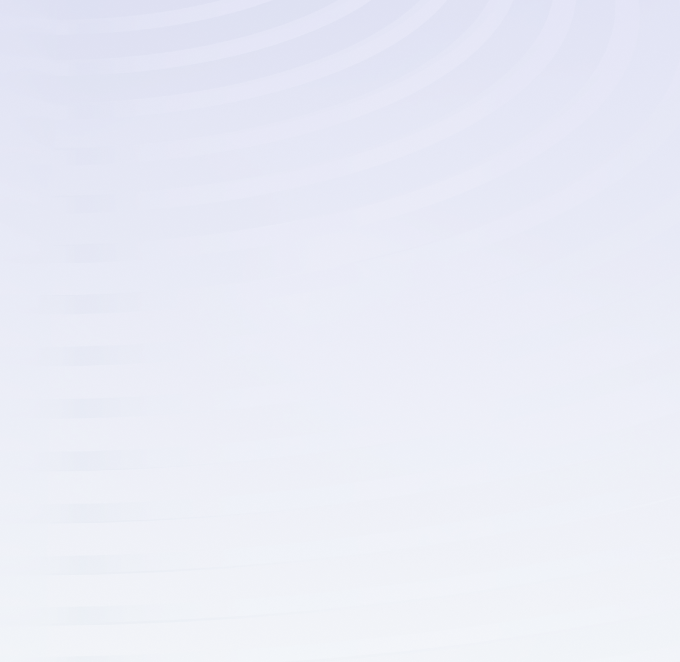
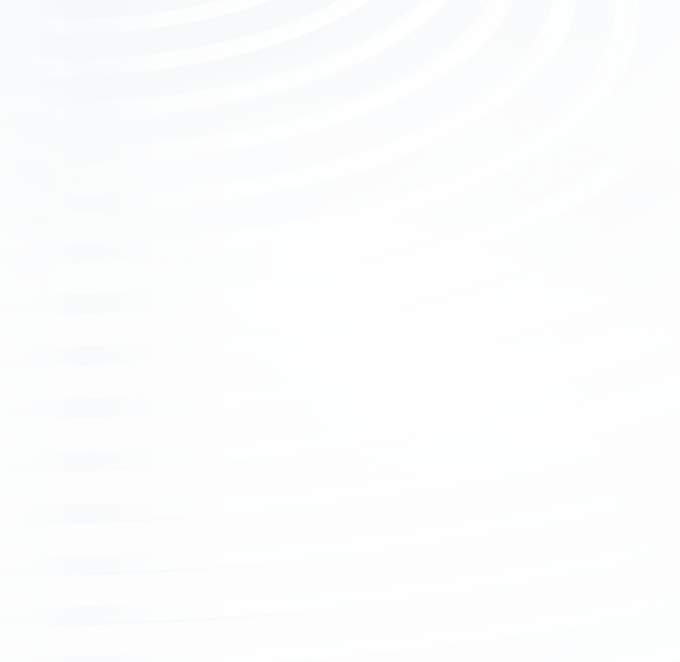
update

Changed region(s): [[0.0, 0.0, 1.0, 0.1208]]

diff --git a/src/components/footer/index.tsx b/src/components/footer/index.tsx
@@ -1,0 +1,59 @@
+
+import './index.less'
+import zhihu from '@/assets/icon/zhihu.png'
+import weibo from '@/assets/icon/weibo.png'
+import weixin from '@/assets/icon/wechat.png'
+
+const Footer: React.FC = () => {
+    return (
+        <footer className='footer'>
+            <div className='footer-wrap app-design'>
+                <div className='footer-item'>
+                    <div className='item-title'>联系我们</div>
+                    <div className='item-wrap'>
+                        <div className='item-label'>
+                            <svg xmlns="http://www.w3.org/2000/svg" width="24" height="24" viewBox="0 0 24 24" fill="none">
+                                <path fillRule="evenodd" clipRule="evenodd" d="M12.7075 21.2706C13.9493 20.0232 16.4989 17.4628 17.6569 16.3048C20.781 13.1806 20.781 8.11529 17.6569 4.99109C14.5327 1.8669 9.46734 1.8669 6.34315 4.99109C3.21895 8.11529 3.21895 13.1806 6.34315 16.3048C7.5011 17.4628 10.0507 20.0232 11.2925 21.2706C11.6835 21.6633 12.3165 21.6633 12.7075 21.2706ZM12 13.3149C13.4728 13.3149 14.6667 12.121 14.6667 10.6482C14.6667 9.17547 13.4728 7.98156 12 7.98156C10.5272 7.98156 9.33333 9.17547 9.33333 10.6482C9.33333 12.121 10.5272 13.3149 12 13.3149Z" fill="#7D8AA3" />
+                            </svg>
+                        </div>
+                        <div className='item-text'>地址：湖南省长沙市芙蓉区合平路618号</div>
+                    </div>
+                    <div className='item-wrap'>
+                        <div className='item-label'>
+                            <svg xmlns="http://www.w3.org/2000/svg" width="24" height="24" viewBox="0 0 24 24" fill="none">
+                                <path d="M3.46255 17.8664C2.68151 17.0853 2.6815 15.819 3.46255 15.0379L4.46833 14.0322C5.12382 13.3767 6.14384 13.2575 6.93276 13.7443L7.57481 14.1405C7.78211 14.2684 8.02942 14.3157 8.2603 14.238C8.86211 14.0356 10.1515 13.4599 11.6806 11.9309C13.2097 10.4018 13.7853 9.11239 13.9877 8.51058C14.0654 8.2797 14.0181 8.03239 13.8902 7.82509L13.494 7.18304C13.0072 6.39412 13.1264 5.3741 13.7819 4.71861L14.7877 3.71283C15.5687 2.93178 16.835 2.93178 17.6161 3.71283L18.2393 4.33603C19.7774 5.87419 20.1459 8.23468 18.9437 10.0475C17.9162 11.597 16.5173 13.4829 14.875 15.1253C13.2326 16.7676 11.3468 18.1664 9.79727 19.194C7.9844 20.3962 5.62391 20.0277 4.08576 18.4896L3.46255 17.8664Z" fill="#7D8AA3" />
+                            </svg>
+                        </div>
+                        <div className='item-text'>电话：0731 - 88849090</div>
+                    </div>
+                    <div className='item-wrap'>
+                        <div className='item-label'>
+                            <svg xmlns="http://www.w3.org/2000/svg" width="24" height="24" viewBox="0 0 24 24" fill="none">
+                                <rect x="3" y="5" width="18" height="14" rx="2" fill="#7D8AA3" />
+                                <path d="M6 8L12 11L18 8" stroke="#2E3A55" strokeWidth="1.5" strokeLinejoin="round" />
+                            </svg>
+                        </div>
+                        <div className='item-text'>邮箱：huazhi@higentec.com</div>
+                    </div>
+                </div>
+                <div className='footer-item'>
+                    <div className='item-title'>友情链接</div>
+                    <div className='item-wrap'>华智生物官网</div>
+                    <div className='item-wrap'>智慧育种平台</div>
+                    <div className='item-wrap'>育种管家</div>
+                </div>
+                <div className='footer-item'>
+                    <div className='item-title'>友情链接</div>
+                    <div className='images'>
+                        <img src={weixin} className='item-image' alt="" />
+                        <img src={weibo} className='item-image' alt="" />
+                        <img src={zhihu} className='item-image' alt="" />
+                    </div>
+                </div>
+            </div>
+            <div className='footer-ipc app-design'>Copyright©2024 华智生物技术有限公司 All rights reserved. </div>
+        </footer>
+    )
+}
+
+export default Footer;

diff --git a/src/views/system/tools.tsx b/src/views/system/tools.tsx
@@ -22,16 +22,19 @@ const Tools: React.FC = () => {
 
         {
             title: '名称',
+            ellipsis: true,
             dataIndex: 'name_zh',
         },
         {
             title: '英文名',
+            ellipsis: true,
             dataIndex: 'name_en',
         },
         {
             title: '类型',
         },
         {
+            width: 400,
             title: '创建者',
             ellipsis: true,
             dataIndex: 'creator',
@@ -40,8 +43,11 @@ const Tools: React.FC = () => {
                     <Select
                         virtual
                         allowClear
+                        size='middle'
                         mode='multiple'
                         maxTagCount={3}
+                        placeholder='请选择创建者'
+                        style={{width: 300}}
                         defaultValue={item.creator}
                         onChange={e => handleChangeRole(item, e)}
                         options={users.map(it => ({ ...it, value: it.id, label: it.realname }))}
@@ -69,12 +75,7 @@ const Tools: React.FC = () => {
                     <Dropdown menu={{ style: { backgroundColor: 'var(--light)' }, items: [{ key: 'success', label: '成功' }, { key: 'failed', label: '失败' }] }}>
                         <span className='audit audit-success'>成功</span>
                     </Dropdown>
-                    // <Switch
-                    //     checkedChildren='启用'
-                    //     unCheckedChildren='禁用'
-                    //     // defaultChecked={item.is_active}
-                    //     onChange={e => handleChangeActive(item, e)}
-                    // />
+                    
                 )
             }
         },
@@ -246,9 +247,7 @@ const Tools: React.FC = () => {
                 action={action}
                 open={openDrawerForm}
                 onClose={handleCloseDrawer}
-                // initialValues={selectedTool}
                 submitLoading={submitLoading}
-            // onConfirm={handleConfirmDrawerForm}
             />
             <Flex style={{ marginBottom: 20 }} justify='space-between'>
                 <Space>

diff --git a/src/views/cloud/components/hot.tsx b/src/views/cloud/components/hot.tsx
@@ -1,7 +1,19 @@
+import { getSystemToolList } from '@/api/tools'
+import hot from '@/assets/images/hot.png'
+import { useEffect } from 'react'
+
 export const Hot: React.FC = () => {
+    useEffect(()=>{
+        getSystemToolList({
+            page: 1,
+            size: 100,
+            type: 'tools'
+        })
+    },[])
     return (
         <div className='hot app-design'>
             <div className='hot-item'>
+                <img src={hot} alt="" />
                 <div className='hot-item-title'>多组学</div>
                 <div className='more'>
                     <svg xmlns="http://www.w3.org/2000/svg" width="32" height="32" viewBox="0 0 32 32" fill="none">
@@ -10,10 +22,17 @@ export const Hot: React.FC = () => {
                     </svg>
                 </div>
                 <div className='hot-tools'>
-                    <div className='hot-tool-item'></div>
+                    <div className='hot-tool-item'>
+                        <img src="" alt="" />
+                        <div className='tool-text'>
+                            <div className='tool-title'></div>
+                            <div className='tool-desc'>desc</div>
+                        </div>
+                    </div>
                 </div>
             </div>
             <div className='hot-item'>
+                <img src={hot} alt="" />
                 <div className='hot-item-title'>云工具</div>
                 <div className='more'>
                     <svg xmlns="http://www.w3.org/2000/svg" width="32" height="32" viewBox="0 0 32 32" fill="none">

diff --git a/src/components/footer/index.less b/src/components/footer/index.less
@@ -1,0 +1,50 @@
+.footer {
+    width: 100%;
+    --bg: #181D28;
+    padding-top: 60px;
+    color: var(--light);
+    background-color: var(--bg);
+
+
+    .footer-wrap {
+        display: flex;
+        margin-bottom: 21px;
+        justify-content: center;
+
+        .footer-item {
+            flex: 1;
+            display: flex;
+            flex-direction: column;
+
+            .item-title {
+                font-size: 16px;
+                font-weight: 500;
+                margin-bottom: 25px;
+            }
+
+            .item-wrap {
+                gap: 8px;
+                display: flex;
+                align-items: center;
+                margin-bottom: 20px;
+
+                .item-text {
+                    margin-top: -5px;
+                }
+            }
+
+            .images {
+                display: flex;
+                gap: 20px;
+            }
+        }
+    }
+
+    .footer-ipc {
+        padding: 21px 0px;
+        text-align: center;
+        background: #181D28;
+        width: var(--design-size);
+        box-shadow: 0px 1px 0px 0px #414E6C inset;
+    }
+}

diff --git a/src/routes/system.tsx b/src/routes/system.tsx
@@ -1,8 +1,8 @@
+import { RouterItems } from '.'
 import Layout from '@/views/layout'
 import { Suspense, lazy } from 'react'
 import { done, start } from 'nprogress'
 import { Link, path_link } from '@/config'
-import { RouteObject } from 'react-router-dom'
 
 const Users = lazy(async () => {
     start()
@@ -76,16 +76,19 @@ export const Projects = lazy(async () => {
 })
 
 
-export const system_routes: RouteObject[] = [
+export const system_routes: RouterItems[] = [
     {
         element: <Layout />,
         path: '/' + Link.system,
+        meta: {
+            auth: true
+        },
         children: [
             {
                 index: true,
                 element: (
                     <Suspense>
-                        <Dashbord/>
+                        <Dashbord />
                     </Suspense>
                 )
             },

diff --git a/src/views/layout/section.tsx b/src/views/layout/section.tsx
@@ -2,6 +2,7 @@ import { Menu, MenuProps } from 'antd'
 import { Outlet } from 'react-router-dom'
 import { menuSlice, useMenu } from '@/store/menuSlice'
 import { useRouteState } from '@/compisition/userRouteState'
+import Footer from '@/components/footer'
 
 const Section: React.FC = () => {
     const { routeState } = useRouteState()
@@ -26,12 +27,14 @@ const Section: React.FC = () => {
                     </div>
                 </aside>
                 <main className='main'><Outlet /></main>
+                
             </section>
         )
     }
     return (
         <main className='section'>
             <Outlet />
+            <Footer/>
         </main>
     )
 

diff --git a/src/routes/cloud.tsx b/src/routes/cloud.tsx
@@ -1,8 +1,8 @@
 import { Link } from '@/config'
+import { RouterItems } from '.'
 import Layout from '@/views/layout'
 import { Suspense, lazy } from 'react'
 import { start, done } from 'nprogress'
-import { RouteObject } from 'react-router-dom'
 
 const Home = lazy(async () => {
     start()
@@ -39,11 +39,7 @@ export const GroupDetail = lazy(async () => {
     return com
 })
 
-export const cloud_routes: (RouteObject & {
-    meta?: {
-        auth: boolean
-    }
-})[] = [
+export const cloud_routes: RouterItems[] = [
         {
             path: '/',
             meta: {

diff --git a/src/views/cloud/components/index.less b/src/views/cloud/components/index.less
@@ -142,8 +142,11 @@
         border-radius: 4px;
         padding: 60px 40px;
         position: relative;
-        background-repeat: no-repeat;
-        background: url(@/assets/images/hot.png);
+        background-image: linear-gradient(180deg, #E4E5F6 0%, #F3F5F9 100%);
+        img {
+            inset: 0;
+            position: absolute;
+        }
 
         .hot-item-title {
             font-size: 30px;
@@ -173,6 +176,7 @@
         font-size: 30px;
         font-weight: 500;
         text-align: center;
+        margin-bottom: 30px;
     }
 
     .achievement-items {

diff --git a/src/views/system/users.tsx b/src/views/system/users.tsx
@@ -122,7 +122,11 @@ const Users: React.FC = () => {
             setLoading(true)
             try {
                 await awit()
-                const r = await getSystemUserList()
+                const r = await getSystemUserList({
+                    page,
+                    search,
+                    size: pageSize,
+                })
                 setTotal(r.data.count)
                 setDatas(r.data.results)
             } catch (error) { } finally {

diff --git a/src/routes/index.tsx b/src/routes/index.tsx
@@ -1,6 +1,14 @@
 import { useState } from 'react'
 import { app_routes } from './config'
-import { useRoutes } from 'react-router-dom'
+import { useRoutes, RouteObject } from 'react-router-dom'
+
+interface MetaRoute {
+    meta: {
+        auth: boolean
+    }
+}
+
+export type RouterItems = MetaRoute & RouteObject
 
 const RouterView: React.FC = () => {
     const [routes, _] = useState(app_routes)

diff --git a/src/routes/task.tsx b/src/routes/task.tsx
@@ -25,7 +25,6 @@ const TaskDataProjects = lazy(async () => {
     return com;
 })
 
-
 const TaskDataTools = lazy(async () => {
     start()
     const com = await import('@/views/task/data_tools')
